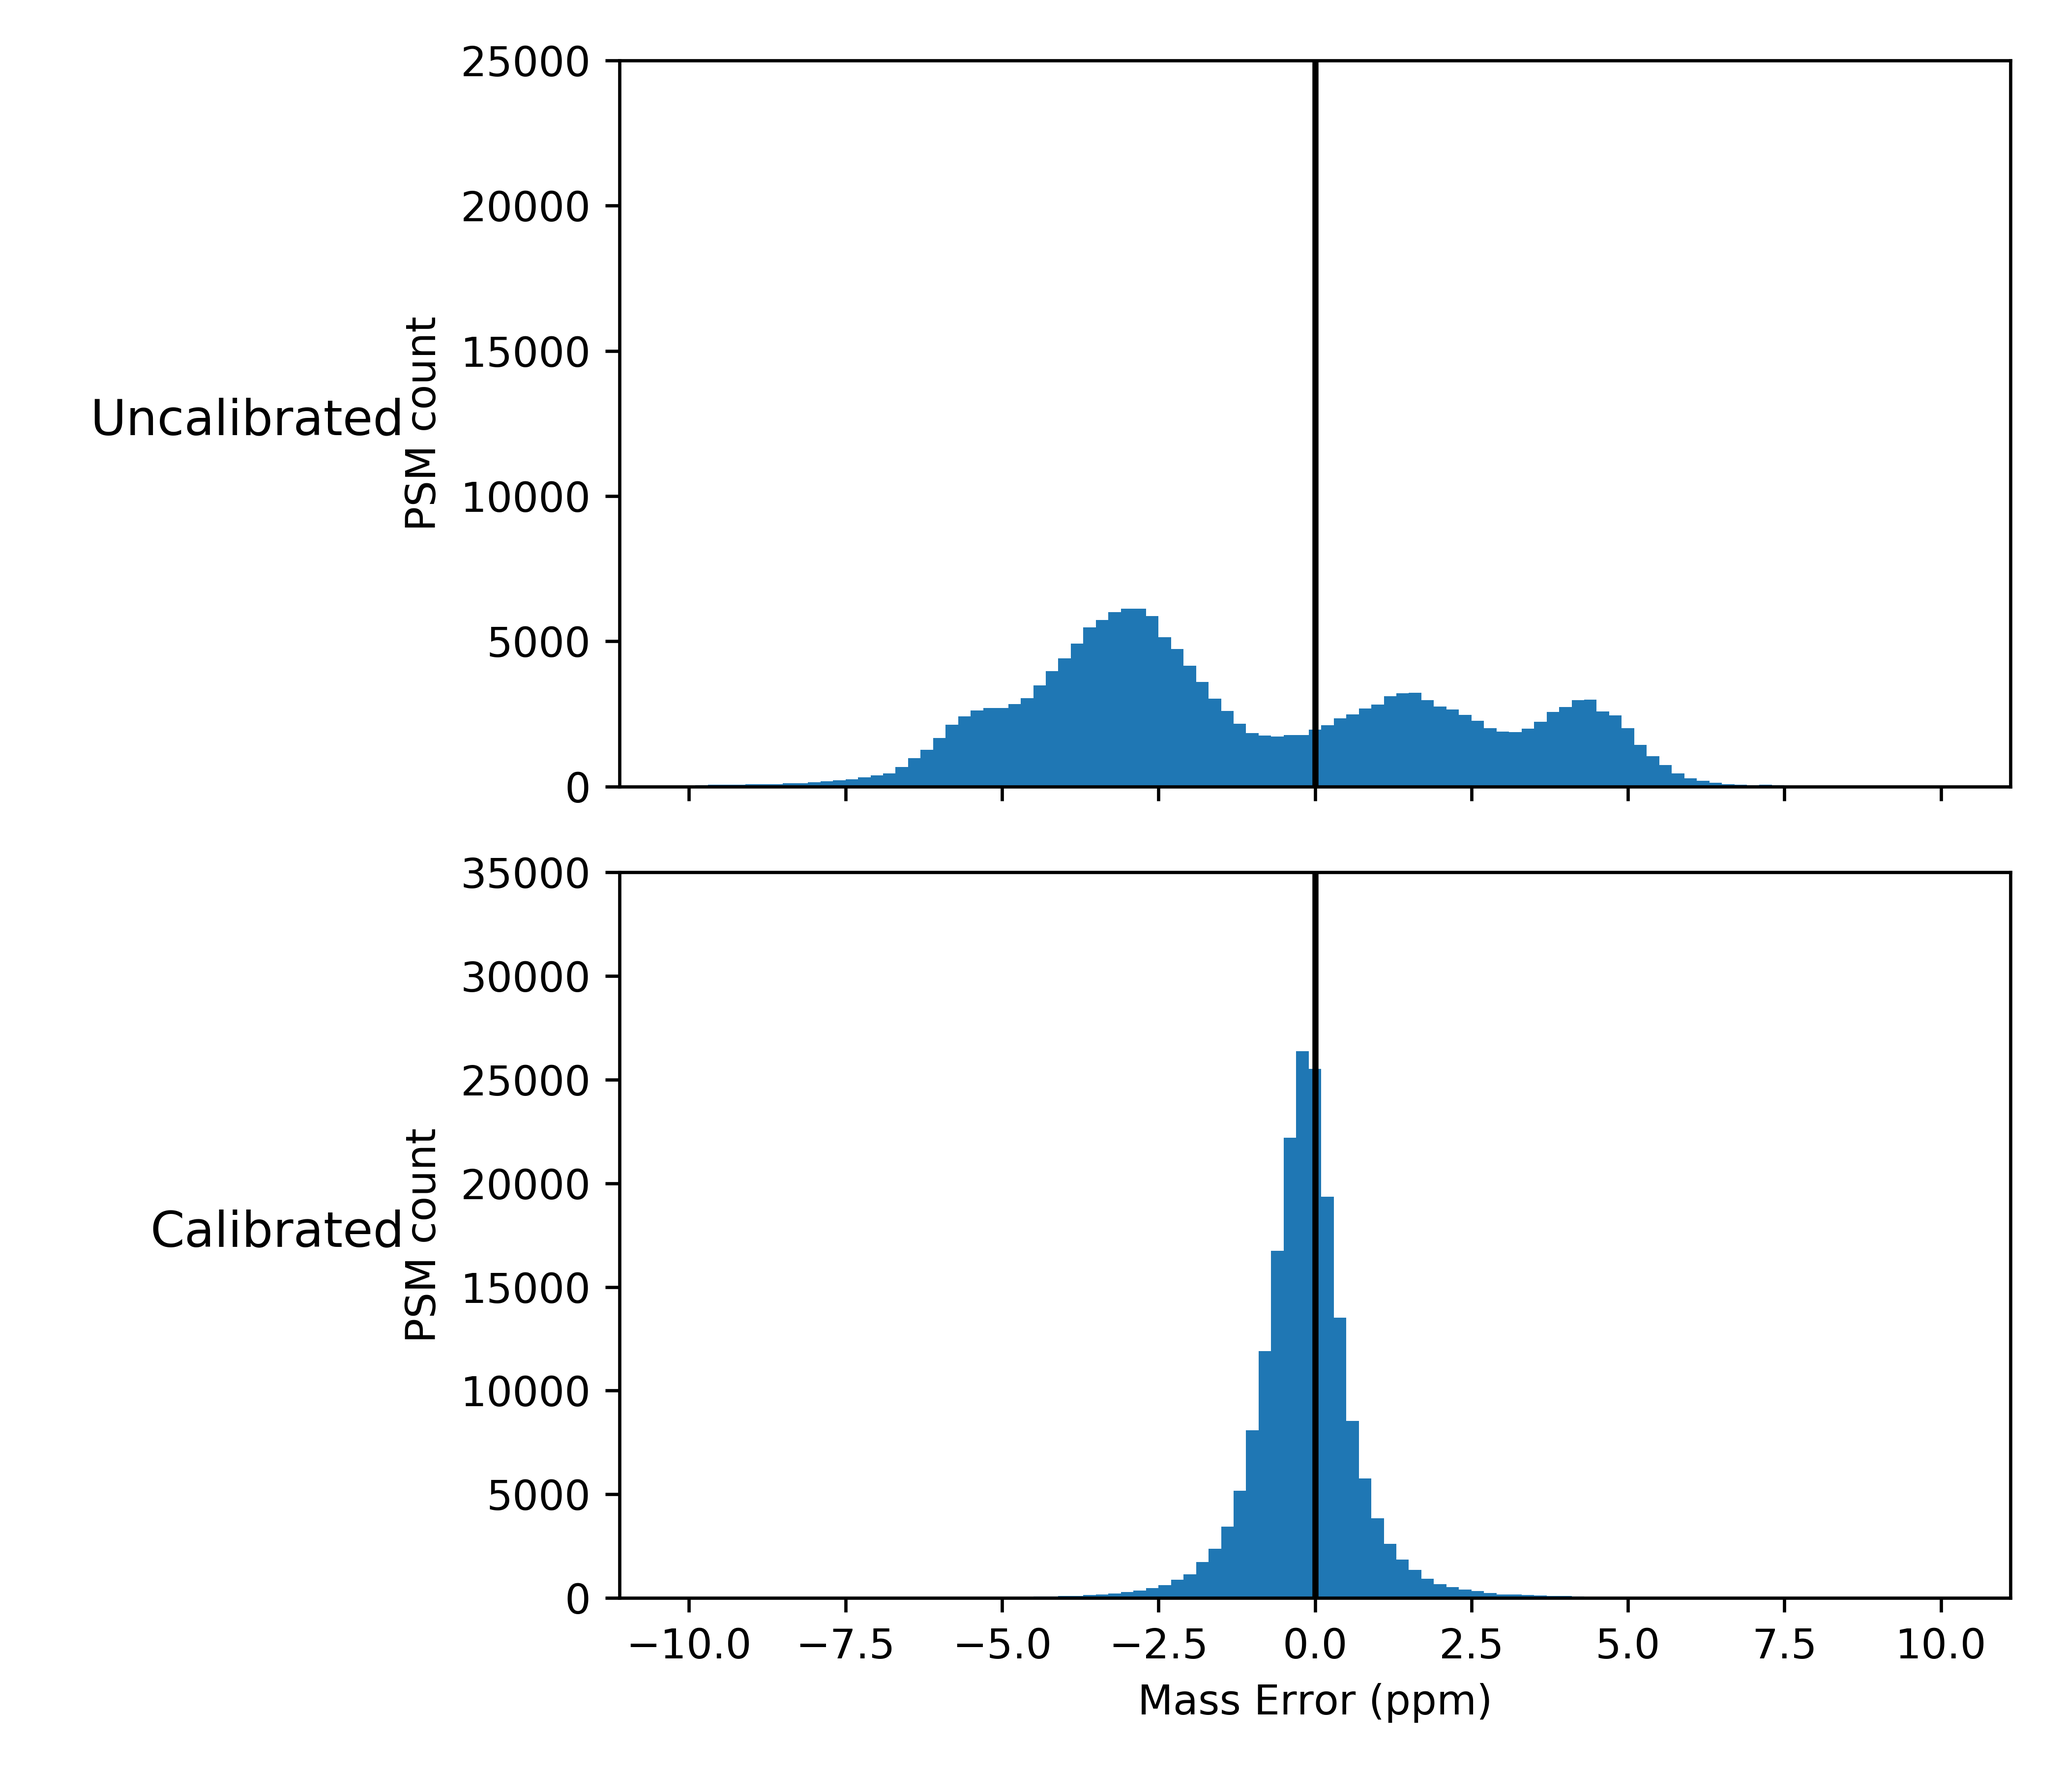
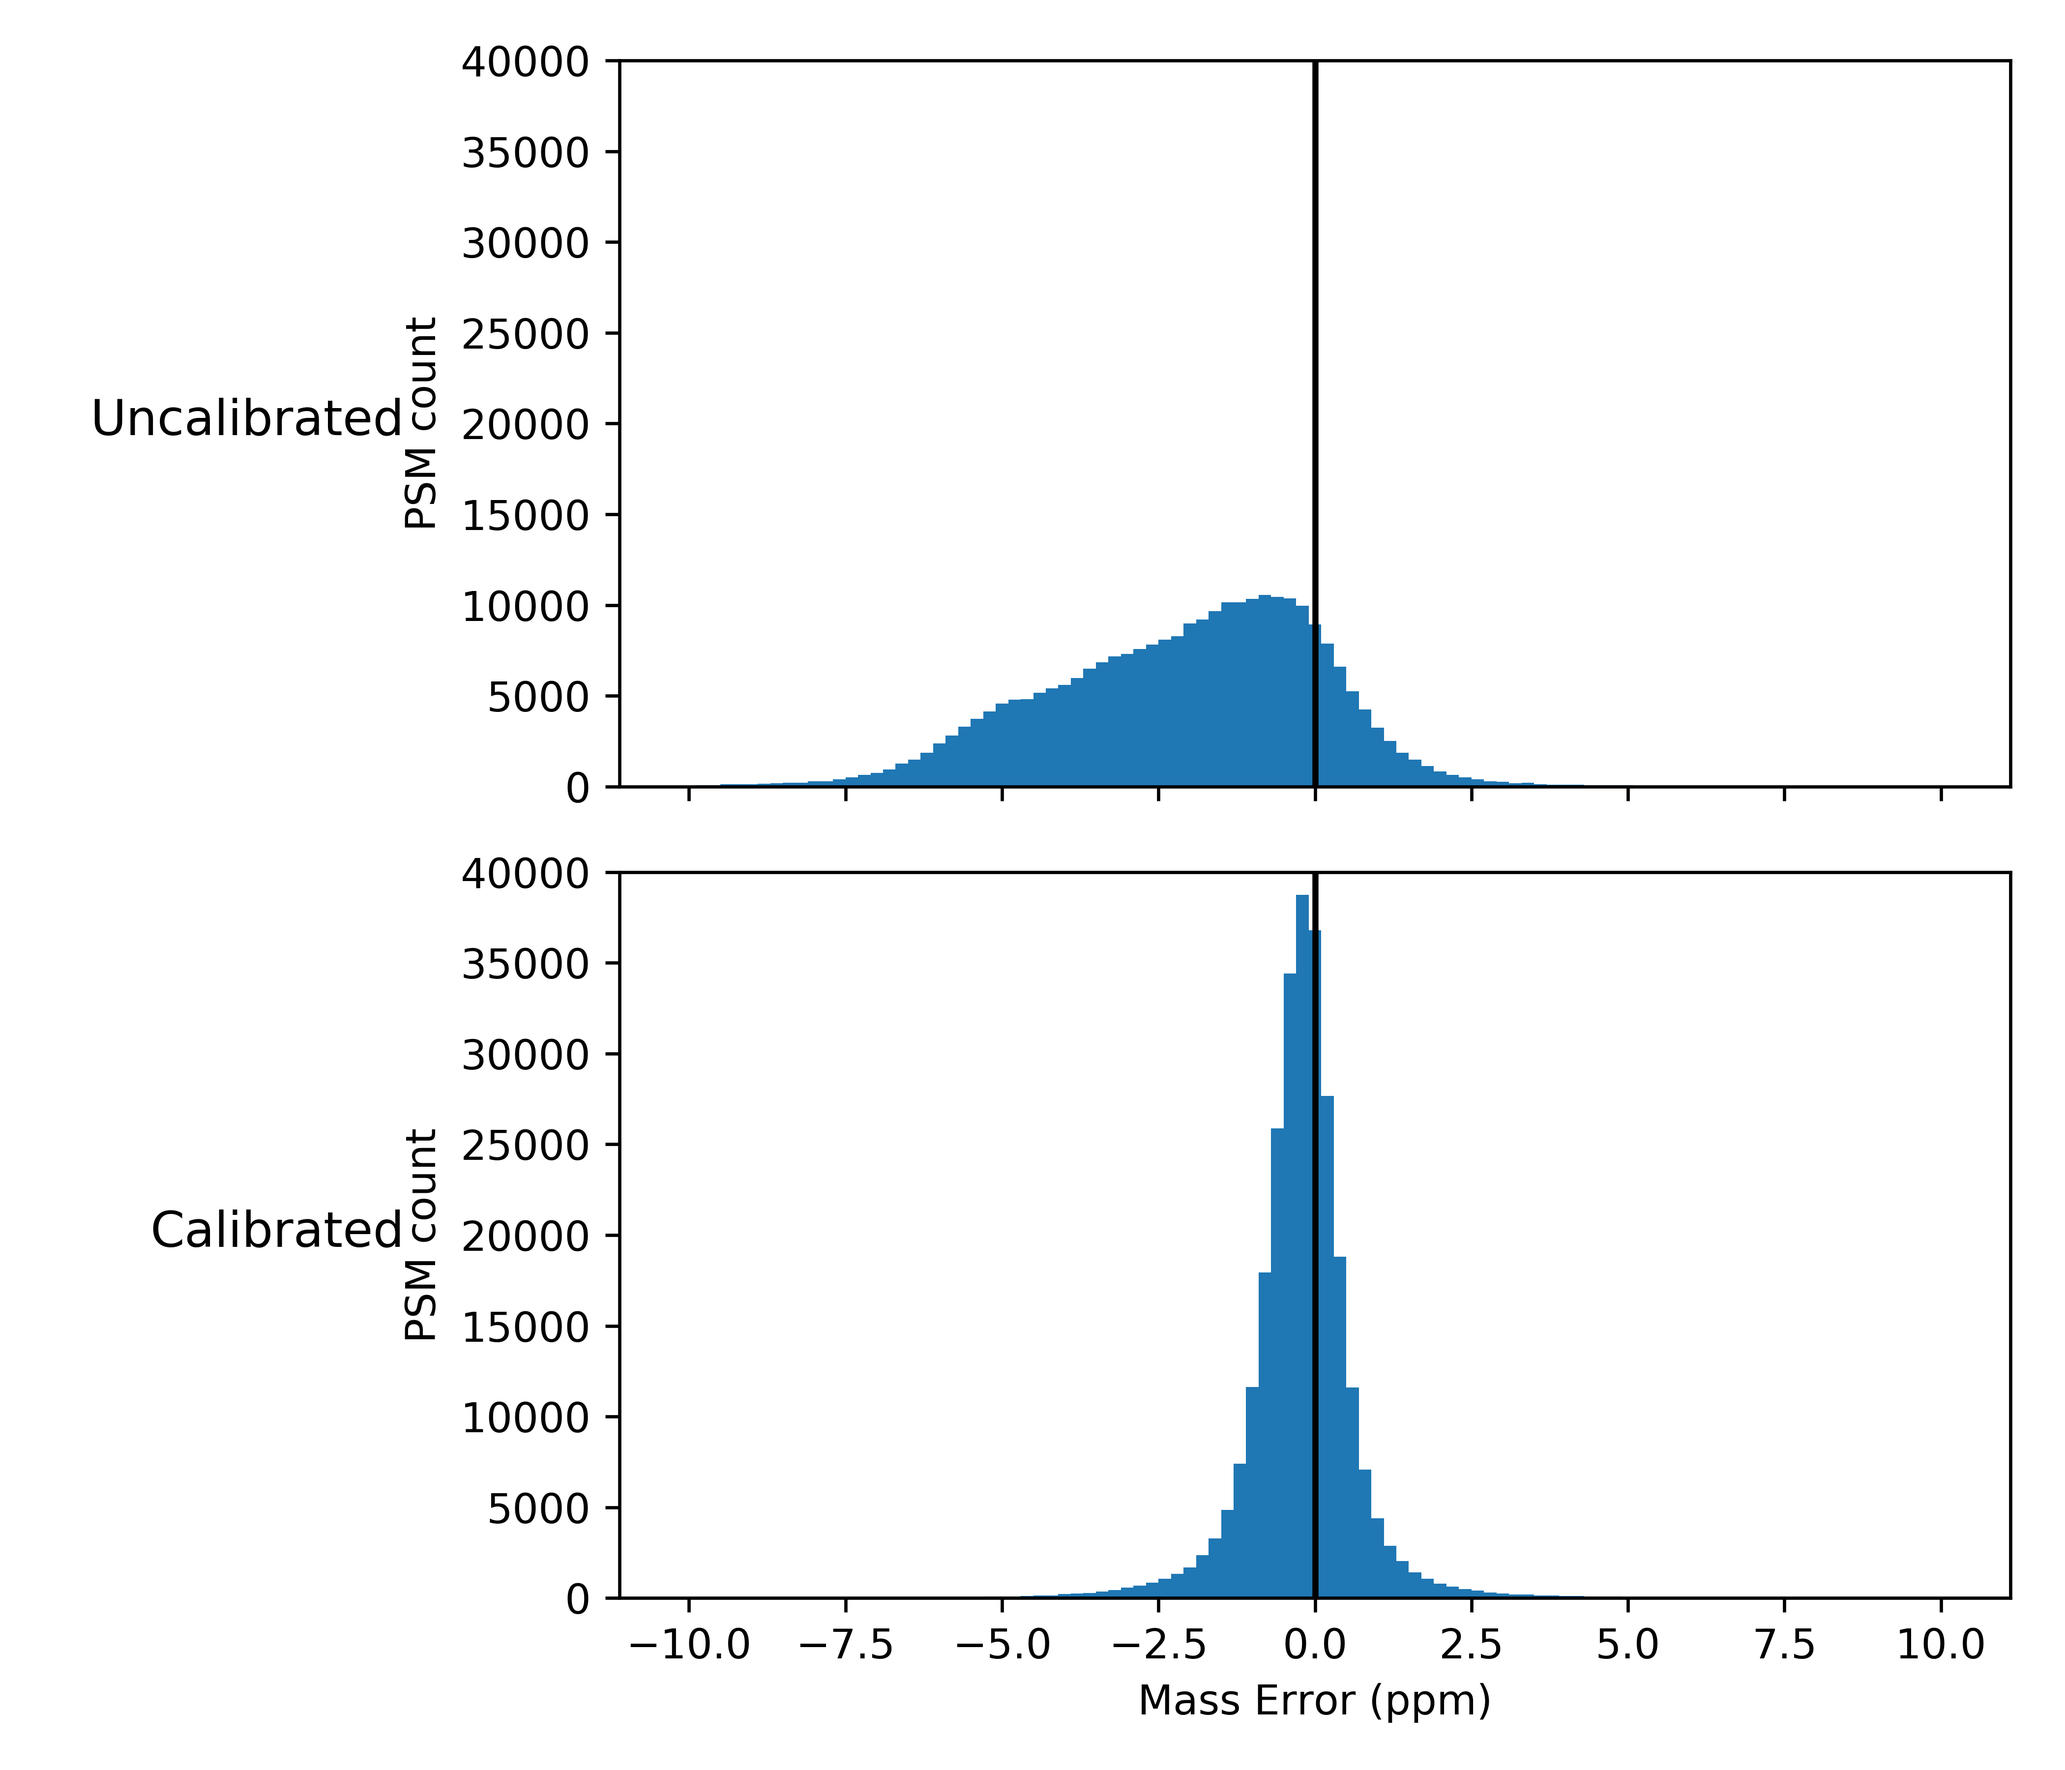
stuff

diff --git a/FigureGeneration/fig4-jurkat;-1;0;1;2.py b/FigureGeneration/fig4-jurkat;-1;0;1;2.py
@@ -2,7 +2,7 @@ import numpy as np
 import matplotlib.pyplot as plt
 import pandas
 
-data = pandas.read_csv(r"C:\Users\stepa\Data\CalibrationPaperData\Mouse\2017-05-05-18-28-01\Task2Calibrate\2017-07-06-17-29-30\Task1Search\aggregatePSMs_-187andUp.psmtsv", sep='\t')
+data = pandas.read_csv(r"C:\Users\stepa\Data\PaperData\Jurkat\2017-07-31-17-44-19\Task2Search\aggregatePSMs_3.5aroundZero.psmtsv", sep='\t')
 
 
 
@@ -11,6 +11,7 @@ height = 6
 width = 7
 plt.figure(figsize=(width, height))
 
+data['Mass Diff (Da)'] = pandas.to_numeric(data['Mass Diff (Da)'], errors='coerce')
 data_sorted = data.sort_values(['Mass Diff (Da)'], ascending=True)
 massDiffs=data_sorted['Mass Diff (Da)'].values
 
@@ -25,7 +26,7 @@ TDhighConf = B[C<0.01]
 
 ok = plt.subplot(221)
 
-halfWidth = 2.505
+halfWidth = 3.505
 min1 = -halfWidth
 max1 = halfWidth
 
@@ -40,26 +41,34 @@ plt.hist(massDiffsHighConf1decoy, bins  =int((max1-min1)/0.01), range=[min1, max
 plt.legend()
 
 plt.ylabel("Count")
-plt.title("PSMs within $\pm 2.5$ Da")
+plt.title("PSMs within $\pm 3.5$ Da")
 ok.set_yscale("log", nonposy='clip')
 
 ok = plt.subplot(223)
 
-halfWidth = 2.505
-min1 = -halfWidth
-max1 = halfWidth
+
+#ok.set_yscale("log", nonposy='clip')
+
+halfWidth = 0.1
+min1 = -1-halfWidth
+max1 = -1+halfWidth
 
 massDiffsHighConf1 = massDiffsHighConf[(massDiffsHighConf>min1) & (massDiffsHighConf<max1)]
 massDiffsHighConf1decoy = massDiffsHighConf[(massDiffsHighConf>min1) & (massDiffsHighConf<max1) & (TDhighConf=="D")]
 
-plt.hist(massDiffsHighConf1, bins  = int((max1-min1)/0.01), range=[min1, max1], label = "Targets")
-plt.hist(massDiffsHighConf1decoy, bins  =int((max1-min1)/0.01), range=[min1, max1], label = "Decoys")
+
+
+plt.hist(massDiffsHighConf1, bins  =  int((max1-min1)/0.001), range=[min1, max1], label = "Targets")
+plt.hist(massDiffsHighConf1decoy, bins  = int((max1-min1)/0.001), range=[min1, max1], label = "Decoys")
 
 plt.legend()
 
 plt.ylabel("Count")
-plt.title("PSMs within $\pm 2.5$ Da")
-ok.set_ylim([0,3000])
+plt.title("PSMs around -1 Da")
+
+plt.annotate('Oxidation\n+Ammonia Loss', xy=(-1.031634,50), xytext=(-1.031634-0.075, 80), arrowprops=dict(arrowstyle="->"))
+plt.annotate('Dehydro', xy=(-1.007825, 60), xytext=(-1,80), arrowprops=dict(arrowstyle="->"))
+plt.annotate('Amidation', xy=(-0.984016, 30), xytext=(-0.984016+0.03, 50), arrowprops=dict(arrowstyle="->"))
 
 ok = plt.subplot(222)
 
@@ -114,19 +123,19 @@ plt.ylabel("Count")
 
 plt.title("PSMs around 2 Da")
 
-#plt.annotate('Xle->D', xy=(1.942879, 15), xytext=(1.942879-0.05, 55), arrowprops=dict(arrowstyle="->"))
-#plt.annotate('Thr->Cys', xy=(1.961506, 18), xytext=(1.961506-0.07, 125), arrowprops=dict(arrowstyle="->"))
-plt.annotate('Double\nDeamidation', xy=(1.968032, 15), xytext=(1.968032-0.077, 20), arrowprops=dict(arrowstyle="->"))
-plt.annotate('Val->Thr', xy=(1.979265, 25), xytext=(1.979265-0.028, 30), arrowprops=dict(arrowstyle="->"))
-#plt.annotate('1Mm\nand\nDeamidation', xy=(1.0029+0.984016, 25), xytext=(1.997-0.07, 340), arrowprops=dict(arrowstyle="->"))
-#plt.annotate('Glu->Met', xy=(1.997892, 22), xytext=(1.997+0.04, 180), arrowprops=dict(arrowstyle="->"))
-plt.annotate('2 Mm', xy=(2.0052, 20), xytext=(2.02, 23), arrowprops=dict(arrowstyle="->"))
-plt.annotate('Pro->Val', xy=(2.015650, 13), xytext=(2.015650+0.012, 17), arrowprops=dict(arrowstyle="->"))
+plt.annotate('Xle->D', xy=(1.942879, 15), xytext=(1.942879-0.05, 25), arrowprops=dict(arrowstyle="->"))
+#plt.annotate('Thr->Cys', xy=(1.961506, 18), xytext=(1.961506-0.07, 35), arrowprops=dict(arrowstyle="->"))
+plt.annotate('Double\nDeamidation', xy=(1.968032, 40), xytext=(1.968032-0.077, 45), arrowprops=dict(arrowstyle="->"))
+plt.annotate('Val->Thr', xy=(1.979265, 29), xytext=(1.979265-0.01, 55), arrowprops=dict(arrowstyle="->"))
+#plt.annotate('1Mm\nand\nDeamidation', xy=(1.0029+0.984016, 25), xytext=(1.997-0.07, 45), arrowprops=dict(arrowstyle="->"))
+#plt.annotate('Glu->Met', xy=(1.997892, 22), xytext=(1.997+0.04, 35), arrowprops=dict(arrowstyle="->"))
+plt.annotate('2 Mm', xy=(2.0052, 20), xytext=(2.02, 25), arrowprops=dict(arrowstyle="->"))
+#plt.annotate('Pro->Val', xy=(2.015650, 13), xytext=(2.015650+0.012, 17), arrowprops=dict(arrowstyle="->"))
 
 plt.tight_layout()
 
 
-plt.savefig(r'C:\Users\stepa\Source\StefanPaper\fig4mouse-1012.png', format='png', dpi=600)
+plt.savefig(r'C:\Users\stepa\Source\StefanPaper\fig4jurkat-1012.png', format='png', dpi=600)
 
 
 plt.show()

diff --git a/FigureGeneration/fig2-10ppmSearchCalib.py b/FigureGeneration/fig2-10ppmSearchCalib.py
@@ -2,7 +2,7 @@ import numpy as np
 import matplotlib.pyplot as plt
 import pandas
 
-maxi = 25000
+maxi = 40000
 
 
 height = 6
@@ -10,7 +10,10 @@ width = 7
 
 f, ((ax1), (ax3)) = plt.subplots(2, 1, sharex='col', sharey='row', figsize=(width,height))
 
-ok = pandas.read_csv(r"C:\Users\stepa\Data\CalibrationPaperData\Mouse\2017-05-05-18-28-01\Task1Search\allPSMs_10ppmAroundZero.psmtsv", sep='\t')  
+ok = pandas.read_csv(r"C:\Users\stepa\Data\PaperData\Jurkat\2017-08-01-09-15-26\Task1Search\aggregatePSMs_10ppmAroundZero.psmtsv", sep='\t')  
+
+ok['Mass Diff (ppm)'] = pandas.to_numeric(ok['Mass Diff (ppm)'], errors='coerce')
+
 A=ok[r"Mass Diff (ppm)"]
 B=ok[r"Decoy/Contaminant/Target"]=="T"
 C=ok[r"QValue Notch"]
@@ -22,9 +25,12 @@ ax1.set_ylabel('PSM count')
 ax1.annotate(r"Uncalibrated", xy=(0, 0.5), xycoords=ax1.yaxis.label, textcoords='offset points',
                 size='large', ha='right', va='center', xytext=(0,0.5))
 
-maxi = 35000
+maxi = 40000
 
-ok = pandas.read_csv(r"C:\Users\stepa\Data\CalibrationPaperData\Mouse\2017-05-05-18-28-01\Task3Search\allPSMs_10ppmAroundZero.psmtsv", sep='\t')  
+ok = pandas.read_csv(r"C:\Users\stepa\Data\PaperData\Jurkat\2017-07-31-17-44-19\Task1Calibrate\2017-08-01-09-28-39\Task1Search\aggregatePSMs_10ppmAroundZero.psmtsv", sep='\t')  
+
+ok['Mass Diff (ppm)'] = pandas.to_numeric(ok['Mass Diff (ppm)'], errors='coerce')
+
 A=ok[r"Mass Diff (ppm)"]
 B=ok[r"Decoy/Contaminant/Target"]=="T"
 C=ok[r"QValue Notch"]

diff --git a/FigureGeneration/fig1-calibErrors.py b/FigureGeneration/fig1-calibErrors.py
@@ -2,9 +2,8 @@ import numpy as np
 import matplotlib.pyplot as plt
 import pandas
 
-nice= pandas.read_csv(r"C:\Users\stepa\Data\CalibrationPaperData\Mouse\2017-07-10-17-50-26\Task1Calibrate\04-30-13_CAST_Frac5_4uLinLinearbeforesc1.ms1dptsv", sep='\t')
-nice2= pandas.read_csv(r"C:\Users\stepa\Data\CalibrationPaperData\Mouse\2017-07-10-17-50-26\Task1Calibrate\04-30-13_CAST_Frac5_4uLinNonLinearafterfc4.ms1dptsv", sep='\t')
-
+nice= pandas.read_csv(r"C:\Users\stepa\Data\PaperData\Jurkat\2017-07-31-17-44-19\Task1Calibrate\120426_Jurkat_highLC_Frac21inLinearbeforesc1.ms1dptsv", sep='\t')
+nice2= pandas.read_csv(r"C:\Users\stepa\Data\PaperData\Jurkat\2017-07-31-17-44-19\Task1Calibrate\120426_Jurkat_highLC_Frac21inNonLinearafterfc9.ms1dptsv", sep='\t')
 
 height = 6
 width = 7
